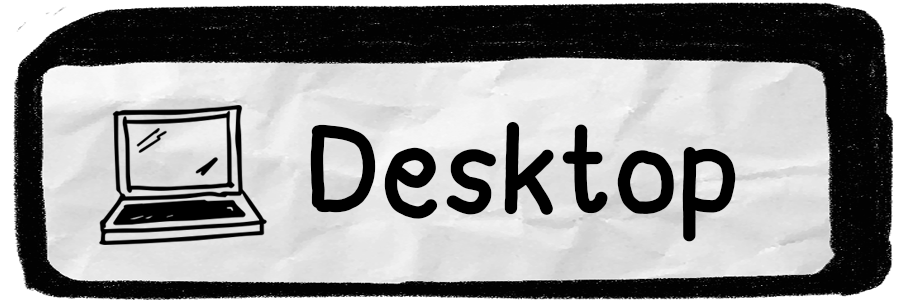
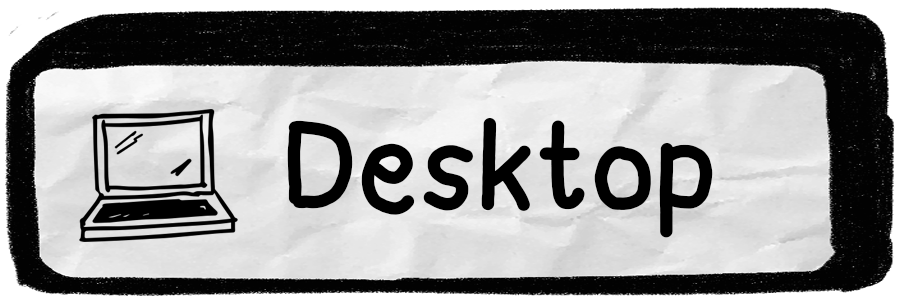
tirando cores do fundo dos botões

diff --git a/css/style.css b/css/style.css
@@ -10,7 +10,7 @@ html, body
 
 body
 {
-	background-image: url("../imgs/madeira.png");
+	background: url("../imgs/madeira.png");
 	background-repeat:repeat;
 }
 
@@ -28,7 +28,7 @@ body
 {
 	min-height: 100%;
 	min-width: 790px;
-	background-image: url("../imgs/novafolha.png");
+	background: url("../imgs/novafolha.png");
 	background-size: cover;
 	margin: 10px 70px 0px 70px;
 	display: flex;
@@ -231,7 +231,7 @@ input[type=range]::-ms-fill-lower{
 
 #imgLogo
 {
-	background-image: url("../imgs/logoforca.png");
+	background: url("../imgs/logoforca.png");
 	height: 139px;
 	width: 180px;
 	float: left;
@@ -241,7 +241,7 @@ input[type=range]::-ms-fill-lower{
 
 #imgLogoInstrucoes
 {
-	background-image: url("../imgs/logoforca.png");
+	background: url("../imgs/logoforca.png");
 	height: 139px;
 	width: 180px;
 	float: left;
@@ -251,7 +251,7 @@ input[type=range]::-ms-fill-lower{
 
 #imgLogoVit
 {
-	background-image: url("../imgs/logovitoria.png");
+	background: url("../imgs/logovitoria.png");
 	height: 139px;
 	width: 180px;
 	float: left;
@@ -287,7 +287,7 @@ input[type=range]::-ms-fill-lower{
 #camadaInicial{
 	display: grid;
 	min-height: 100%;
-	background-image: url("../imgs/novafolha.png");
+	background: url("../imgs/novafolha.png");
 	background-size: cover;
 	margin: 10px 70px 0px 70px;
 	justify-content: center;
@@ -350,7 +350,7 @@ input[type=range]::-ms-fill-lower{
 	height: 56px;
 	margin: 1.5px;
 	float: left;
-	background-image: url(../novasImgs/btnJogo.png);
+	background: url(../novasImgs/btnJogo.png);
 	cursor: pointer;
 	background-size: cover;	
 }
@@ -362,7 +362,7 @@ input[type=range]::-ms-fill-lower{
 	height: 56px;
 	margin: 1.5px;
 	float: left;
-	background-image: url(../novasImgs/btnJogoPressionado.png);
+	background: url(../novasImgs/btnJogoPressionado.png);
 	cursor: pointer;
 	background-size: cover;	
 }
@@ -443,7 +443,7 @@ p
 	height: 95px;
 	margin: 2rem;
 	background-size: cover;
-	background-image: url("../novasImgs/botaoJogo.png");
+	background: url("../novasImgs/botaoJogo.png");
 }
 
 #btnJogar:hover, #btnJogar:focus
@@ -459,7 +459,7 @@ p
 	height: 95px;
 	margin: 2rem;
 	background-size: cover;
-	background-image: url("../novasImgs/btnInstrucoes.png");
+	background: url("../novasImgs/btnInstrucoes.png");
 }
 
 #btnInstrucoes:hover, #btnInstrucoes:focus
@@ -476,7 +476,7 @@ p
 	height: 95px;
 	margin: 2rem;
 	background-size: cover;
-	background-image: url("../novasImgs/btnCreditos.png");
+	background: url("../novasImgs/btnCreditos.png");
 }
 
 #btnCreditos:hover, #btnCreditos:focus
@@ -490,7 +490,7 @@ p
 {
 	width: 137px;
 	height: 65px;
-	background-image: url("../imgs/opmenuinicial.png");
+	background: url("../imgs/opmenuinicial.png");
 	margin: 1.5rem;
 }
 
@@ -507,7 +507,7 @@ p
 	height: 95px;
 	margin: 2rem;
 	background-size: cover;
-	background-image: url("../novasImgs/btnAudio.png");
+	background: url("../novasImgs/btnAudio.png");
 }
 
 #btnAudio:hover, #btnAudio:focus
@@ -521,7 +521,7 @@ p
 {
 	width: 117px;
 	height: 65px;
-	background-image: url("../imgs/btnRanking.png")
+	background: url("../imgs/btnRanking.png")
 }
 
 #btnVoltar
@@ -530,7 +530,7 @@ p
 	height: 65px;
 	margin-top: 1rem;
 	margin-left: 1rem;
-	background-image:url("../imgs/btnVoltar.png");
+	background:url("../imgs/btnVoltar.png");
 }
 
 #botoesFimDeJogo
@@ -544,7 +544,7 @@ p
     width: 225px;
     height: 80px;
     border: none;
-    background-image: url(../novasImgs/btnRecomeçarDerrota.png);
+    background: url(../novasImgs/btnRecomeçarDerrota.png);
     background-size: cover;
 }
 
@@ -554,7 +554,7 @@ p
 	width: 145px;
 	height: 80px;
 	border: none;
-	background-image: url("../novasImgs/btnOpcoes.png");
+	background: url("../novasImgs/btnOpcoes.png");
 	background-size: cover;
 }
 
@@ -571,7 +571,7 @@ p
 	width: 175px;
 	height: 70px;
 	border: none;
-	background-image: url("../novasImgs/btnVoltar.png");
+	background: url("../novasImgs/btnVoltar.png");
 }
 
 #btnMenu2:hover, #btnMenu2:focus
@@ -587,7 +587,7 @@ p
     width: 225px;
     height: 80px;
     border: none;
-    background-image: url(../novasImgs/btnDesistirVitoria.png);
+    background: url(../novasImgs/btnDesistirVitoria.png);
     background-size: cover;
 }
 
@@ -605,7 +605,7 @@ p
     width: 225px;
     height: 80px;
     border: none;
-    background-image: url(../novasImgs/btnContinuarVitoria.png);
+    background: url(../novasImgs/btnContinuarVitoria.png);
     background-size: cover;
 }
 
@@ -632,7 +632,7 @@ p
 #btnDesktop{
 	height: 75px;
 	width: 225px;
-	background-image: url("../novasImgs/btnDesktop.png");
+	background: url("../novasImgs/btnDesktop.png");
 	background-size: cover;
 	border: none;
 	margin: .3rem auto;
@@ -641,7 +641,7 @@ p
 #btnMobile{
 	height: 75px;
 	width: 225px;
-	background-image: url("../novasImgs/btnMobile.png");
+	background: url("../novasImgs/btnMobile.png");
 	background-size: cover;
 	border: none;
 	margin: .3rem auto;
@@ -759,39 +759,39 @@ p
 }
 
 /*#opcaoContinuar, #opcaoAudio, #opcaoInstrucoes, #opcaoMenu{
-    background-image: none;
+    background: none;
 	width: 117px;
 	height: 65px;
 	margin: 0 auto;
 	margin-top: 1rem;
-	background-image: url("../imgs/btnContinuar.png");
+	background: url("../imgs/btnContinuar.png");
 }*/
 
 #opcaoContinuar{
 	width: 175px;
 	height: 90px;
-	background-image: url("../novasImgs/btnContinuarOpcoes.png");
+	background: url("../novasImgs/btnContinuarOpcoes.png");
 	background-size: cover;
 }
 
 #opcaoAudio{
 	width: 175px;
 	height: 90px;
-	background-image: url("../novasImgs/btnAudioOpcoes.png");
+	background: url("../novasImgs/btnAudioOpcoes.png");
 	background-size: cover;
 }
 
 #opcaoInstrucoes{
 	width: 175px;
 	height: 90px;
-	background-image: url("../novasImgs/btnInstrucoesOpcoes.png");
+	background: url("../novasImgs/btnInstrucoesOpcoes.png");
 	background-size: cover;
 }	
 
 #opcaoMenu{
 	width: 175px;
 	height: 90px;
-	background-image: url("../novasImgs/btnDesistirOpcoes.png");
+	background: url("../novasImgs/btnDesistirOpcoes.png");
 	background-size: cover;
 }
 
@@ -801,7 +801,7 @@ p
 	margin-top: 0px;
 	margin-top: 1rem;
 	width: 117px;
-	background-image: url("../imgs/btnVoltar2.png");
+	background: url("../imgs/btnVoltar2.png");
 }
 
 #audioVoltar:focus{

diff --git a/css/mobileStyle.css b/css/mobileStyle.css
@@ -11,7 +11,7 @@ html, body
 
 body
 {
-	background-image: url("../imgs/novafolha.png");
+	background: url("../imgs/novafolha.png");
     background-size: cover;
 }
 
@@ -50,13 +50,6 @@ h2{
 	grid-template-rows: repeat(2, 1fr);
 }
 
-#camadaAudio{
-	
-}
-
-#camadaControleAudio{
-	
-}
 
 #divAudio{
 	height: calc(var(--vh, 1vh) * 100);
@@ -263,7 +256,7 @@ input[type=range] {
 
 #imgLogoVit
 {
-	background-image: url("../imgs/logovitoria.png");
+	background: url("../imgs/logovitoria.png");
 	height: 139px;
 	width: 180px;
 	float: left;
@@ -394,7 +387,7 @@ input[type=range] {
 	height: 14vw;
 	margin: 1px;
 	float: left;
-	background-image: url(../imgsMobile/botaoTeclado.png);
+	background: url(../imgsMobile/botaoTeclado.png);
 	background-size: cover;
 	cursor: pointer;	
 }
@@ -406,7 +399,7 @@ input[type=range] {
 	height: 14vw;
 	margin: 1px;
 	float: left;
-	background-image: url(../imgsMobile/botaoTecladoPressionado.png);
+	background: url(../imgsMobile/botaoTecladoPressionado.png);
 	background-size: cover;
 	cursor: pointer;		
 }
@@ -600,7 +593,7 @@ p
 {
 	width: 117px;
 	height: 65px;
-	background-image: url("../imgs/btnRanking.png")
+	background: url("../imgs/btnRanking.png")
 }
 
 #btnVoltar
@@ -609,7 +602,7 @@ p
 	height: 65px;
 	margin-top: 1rem;
 	margin-left: 1rem;
-	background-image:url("../imgs/btnVoltar.png");
+	background:url("../imgs/btnVoltar.png");
 }
 
 #botoesFimDeJogo
@@ -661,7 +654,7 @@ p
 	width: 116px;
 	height: 65px;
 	border: none;
-	background-image: url("../imgs/btnVoltar2.png");
+	background: url("../imgs/btnVoltar2.png");
 }
 
 #btnMenu2:hover, #btnMenu2:focus
@@ -785,7 +778,7 @@ p
 
 #vidas
 {
-	background-image: url("../imgsMobile/vida.png");
+	background: url("../imgsMobile/vida.png");
 	width: 12.3vw;
 	height: 11vw;
 	float: left;

diff --git a/js/eventosclasses.js b/js/eventosclasses.js
@@ -65,7 +65,6 @@ var delayAtalho2;
 var delayAtalho4;
 var delayLetraAtalho4;
 
-var audioAtalho1 = document.createElement("AUDIO");
 var dezenaLer = document.createElement("AUDIO")
 var unidadeLer = document.createElement("AUDIO");
 var letraE = document.createElement("AUDIO");
